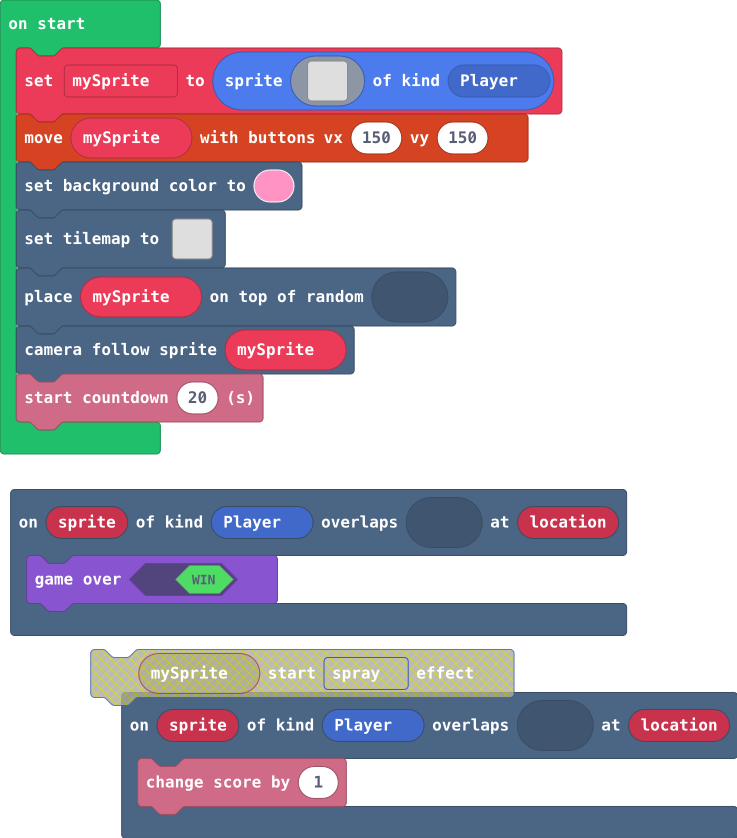
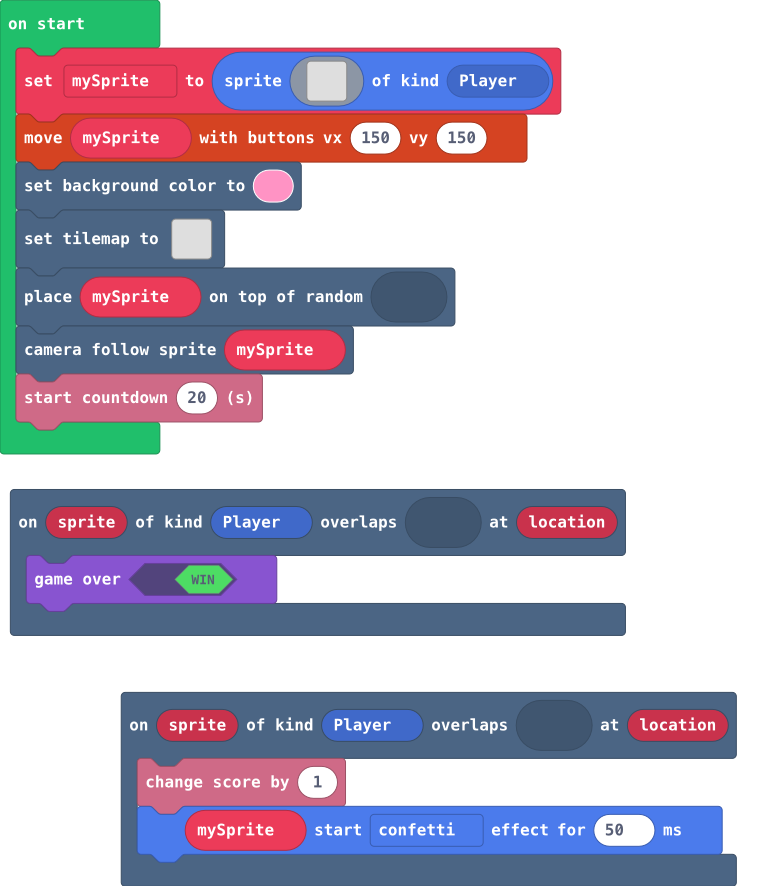
Update main.blocks, main.ts

diff --git a/main.ts b/main.ts
@@ -3,8 +3,10 @@ scene.onOverlapTile(SpriteKind.Player, sprites.castle.shrub, function (sprite, l
 })
 scene.onOverlapTile(SpriteKind.Player, sprites.dungeon.chestClosed, function (sprite, location) {
     info.changeScoreBy(1)
+    mySprite.startEffect(effects.confetti, 50)
 })
-let mySprite = sprites.create(img`
+let mySprite: Sprite = null
+mySprite = sprites.create(img`
     . . . . . . . . . . . . . . 
     . . . f f c c c c f f . . . 
     . . f f b c 5 5 c b f f . . 
